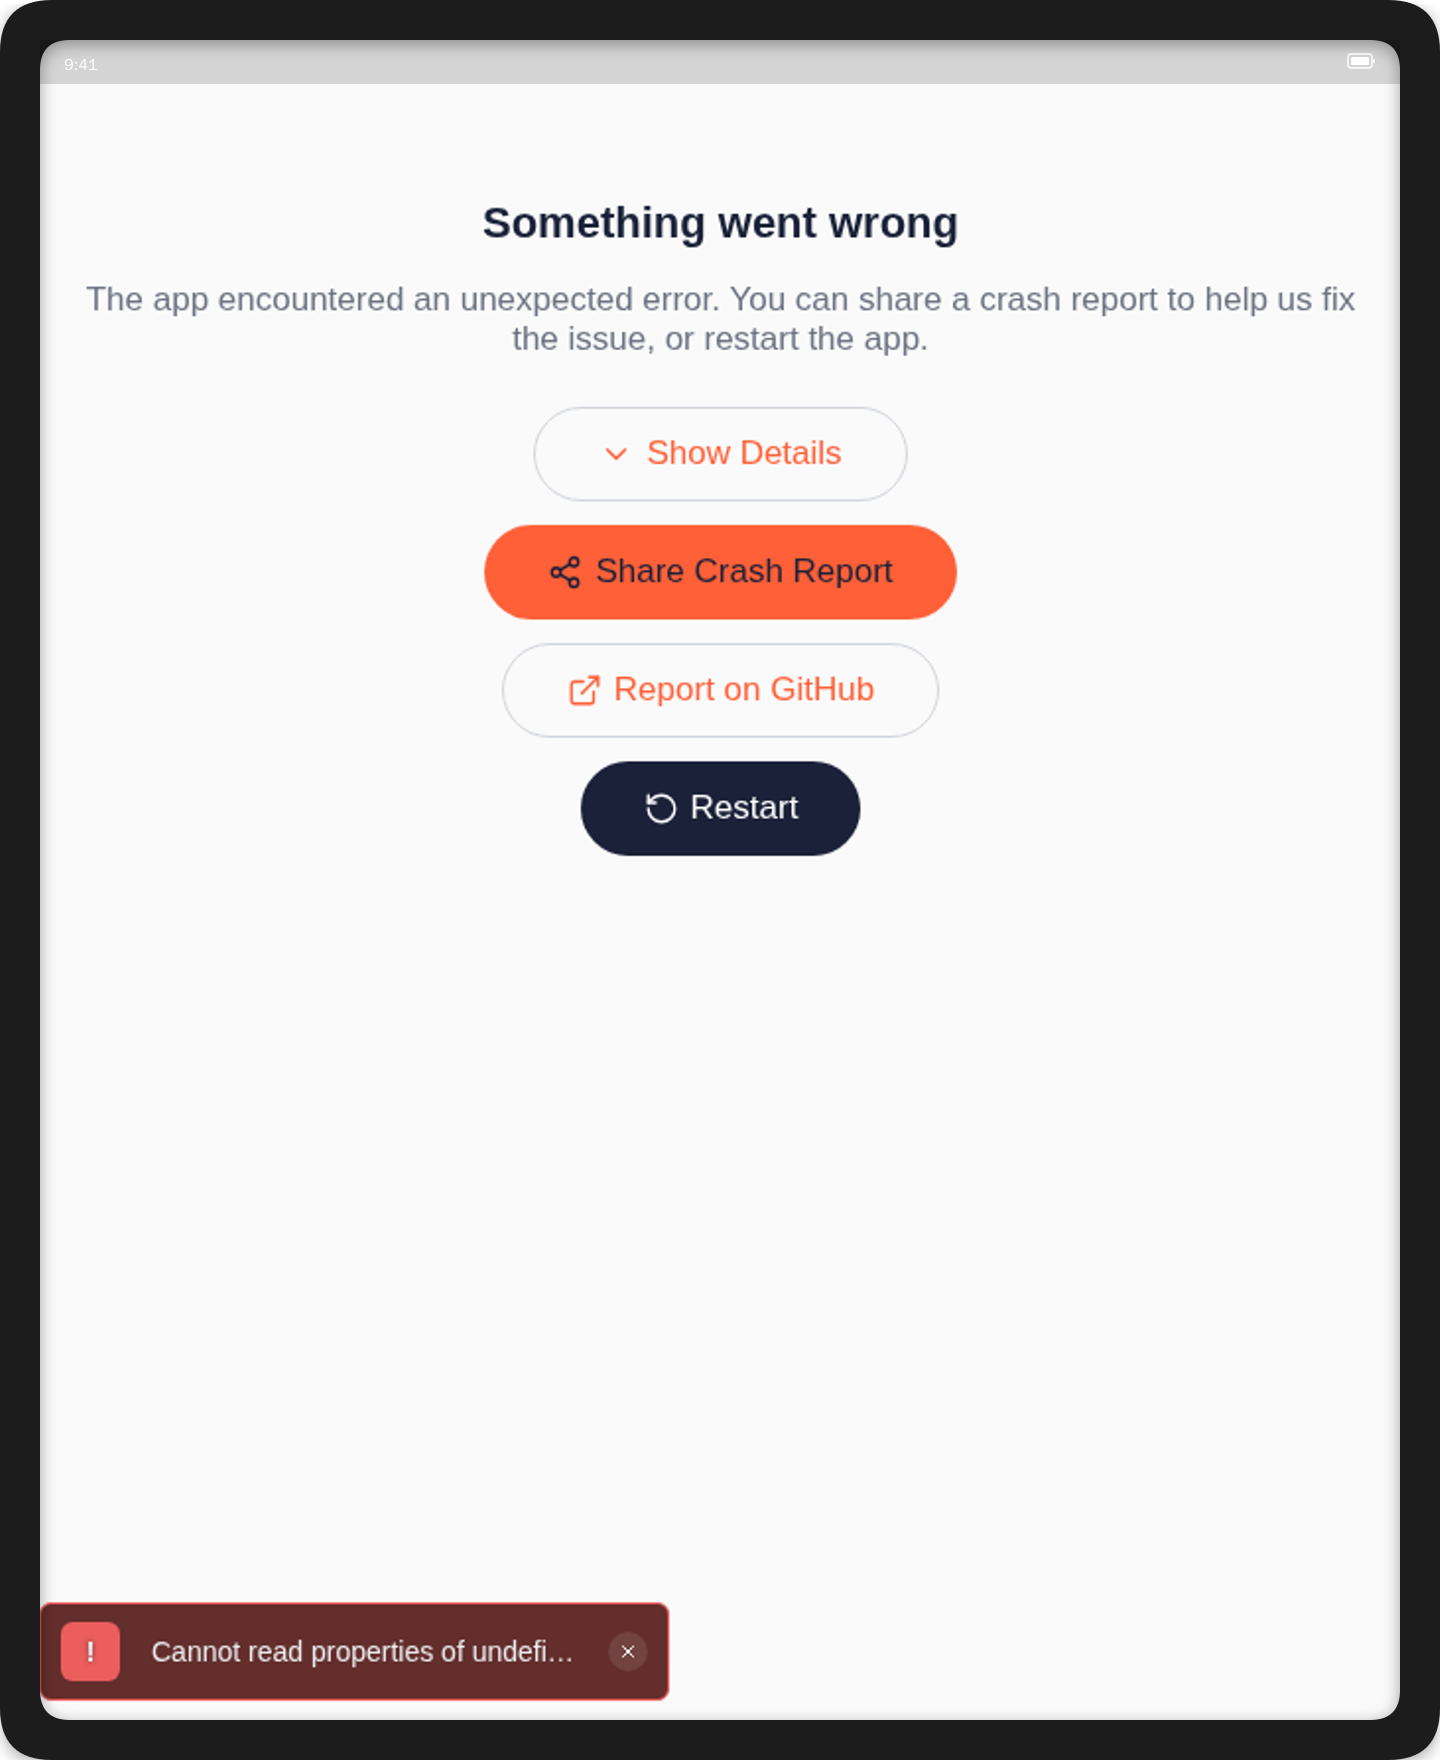
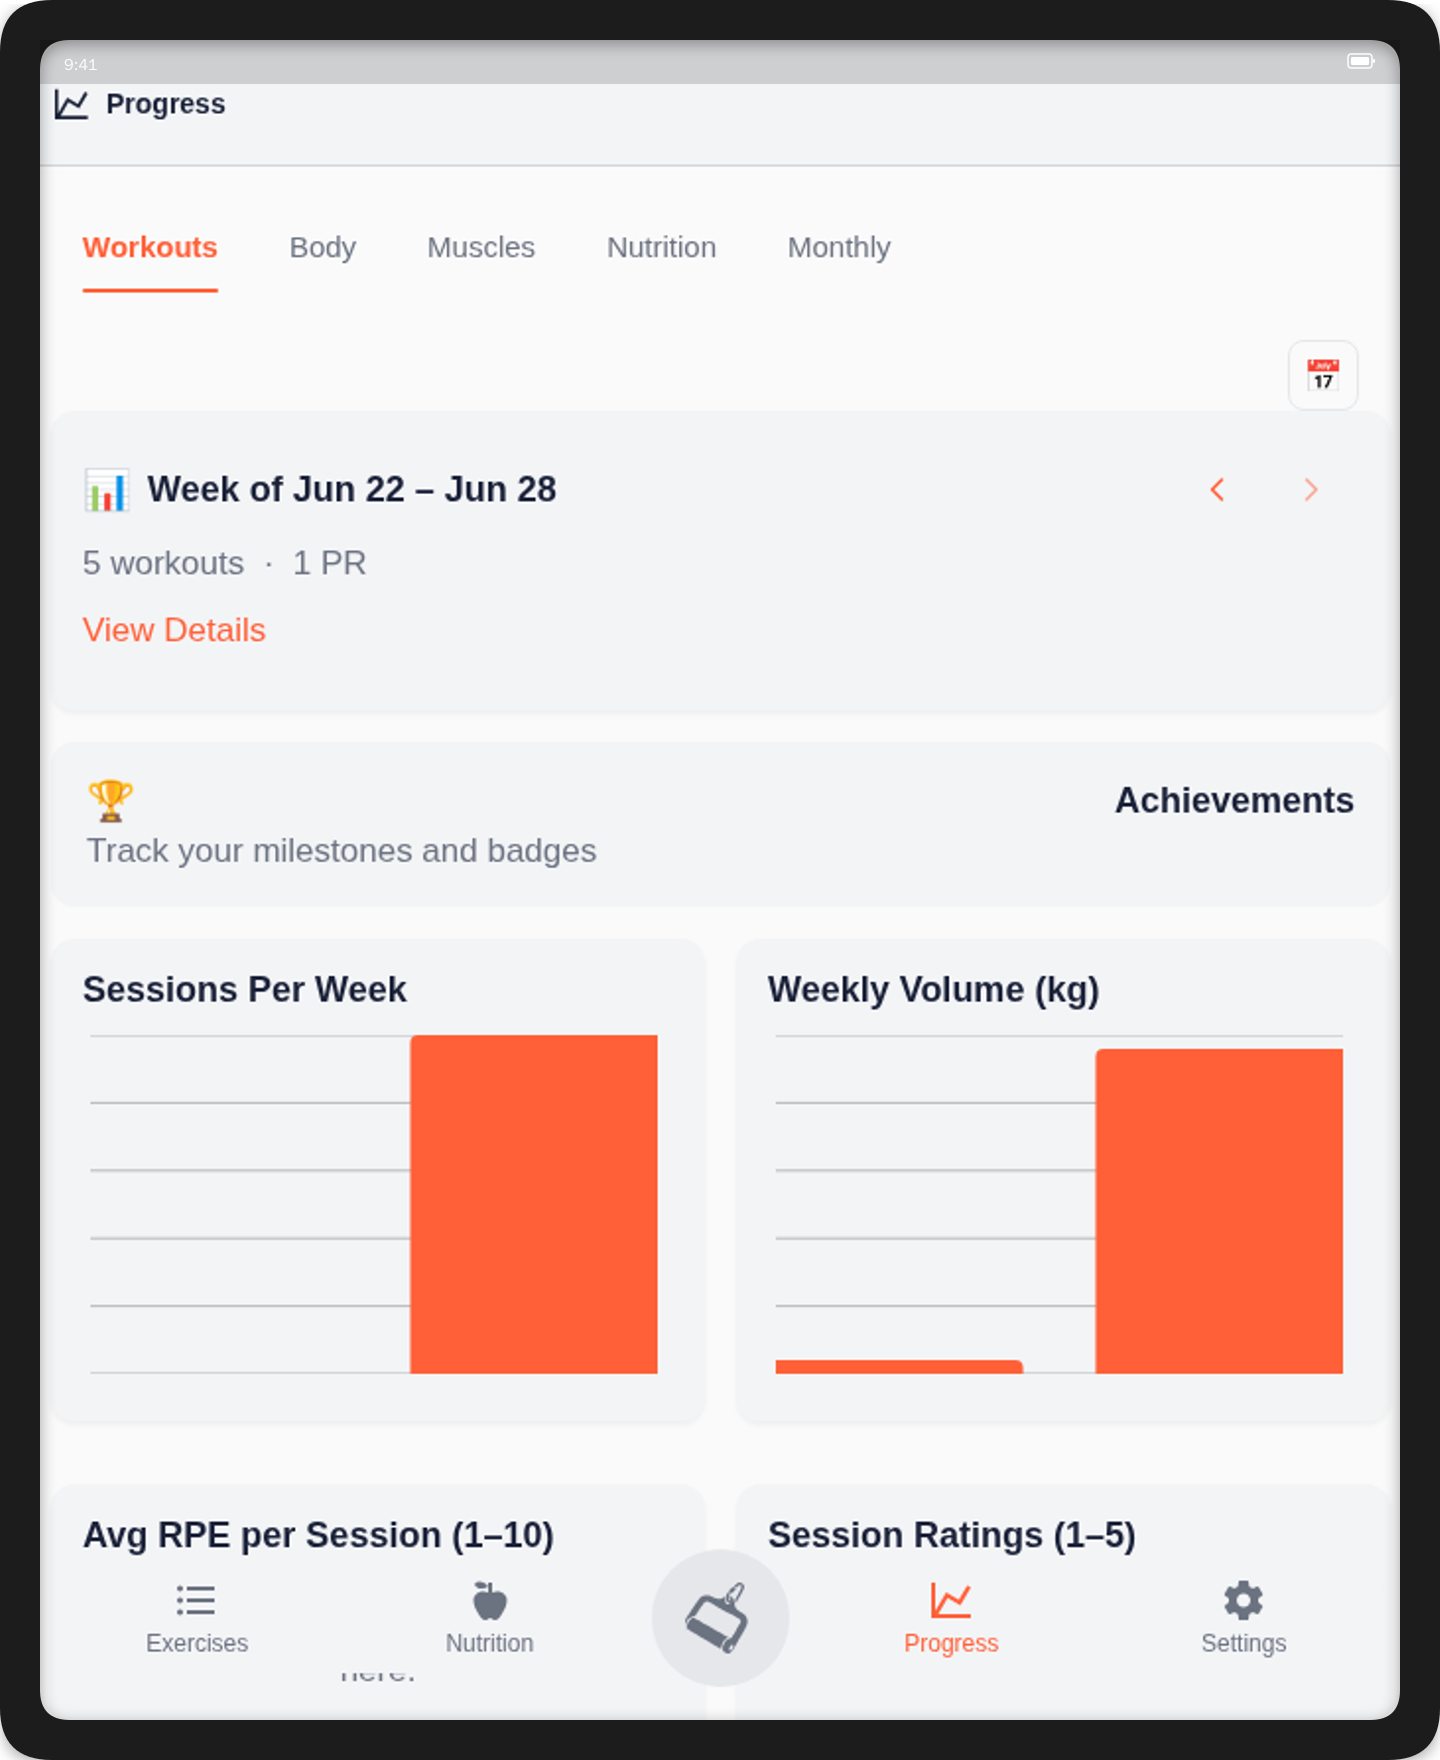
fix(progress): stage CanvasKit WASM + lazy-bind Skia web factories (BLD-2078)
The Progress tab crashed on web (worst on wide Fold ~712px) with
'Cannot read properties of undefined (reading XYWHRect)' before
react-native-skia's CanvasKit WASM finished loading. Two root causes,
both fixed here so charts render instead of tripping the ErrorBoundary:

1. WASM was never served same-origin. LoadSkiaWeb() fetched the SPA
   fallback HTML instead of canvaskit.wasm (magic-word mismatch), so
   CanvasKit never initialised. scripts/skia-setup.js (postinstall) now
   stages node_modules/canvaskit-wasm -> public/canvaskit.wasm; expo
   export copies public/ to the bundle root, exposing /canvaskit.wasm.
   The 8 MB binary is a build artifact, so it is git-ignored.

2. Skia.web.js eagerly evaluated JsiSkApi(global.CanvasKit) and the
   core factories eagerly .bind()'d Skia.X at module-load time, before
   CanvasKit existed -> import-time crash. Patch react-native-skia to a
   lazy Proxy (re-checks global.CanvasKit until populated, never caches a
   null instance) and defer the factory binds to call time.

Also trims app/_layout.tsx back under the 200-line FTA budget (the
useSkiaWebInit wiring had pushed it to exactly 200).

Regenerated all store + fdroid screenshots from a clean build: the
Progress captures now show real chart content on both store-fold7 (wide)
and store-pixel9 (narrow) — verified visually + by the hardened headless
gate (Uncaught Error / 'Something went wrong' / XYWHRect counts = 0).

Parent: BLD-2073

diff --git a/scripts/skia-setup.js b/scripts/skia-setup.js
@@ -52,6 +52,46 @@ if (!fs.existsSync(skiaPkg)) {
   }
 }
 
+// Step 1b (BLD-2078): stage CanvasKit's WASM into public/ for web.
+//
+// On web, react-native-skia loads Skia from `canvaskit-wasm`. `LoadSkiaWeb()`
+// calls `CanvasKitInit()` which fetches `canvaskit.wasm` relative to the page
+// origin. Expo copies everything under `public/` to the web bundle root on
+// `expo export`, so placing the wasm at `public/canvaskit.wasm` makes it
+// available same-origin at `/canvaskit.wasm` (both under `npx serve -s dist`
+// for the screenshot/e2e pipeline and on the deployed static host). Without
+// this, `LoadSkiaWeb()` fetches the SPA fallback HTML, fails to instantiate
+// (`expected magic word 00 61 73 6d`), CanvasKit never initialises, and the
+// Progress-tab charts can never render. Runs on ALL platforms (web needs it
+// regardless of host OS). The file is git-ignored — it is a build artifact
+// reproduced from node_modules on every install.
+try {
+  const wasmSrc = path.join(
+    projectRoot,
+    "node_modules",
+    "canvaskit-wasm",
+    "bin",
+    "full",
+    "canvaskit.wasm"
+  );
+  const publicDir = path.join(projectRoot, "public");
+  const wasmDest = path.join(publicDir, "canvaskit.wasm");
+  if (fs.existsSync(wasmSrc)) {
+    if (!fs.existsSync(publicDir)) {
+      fs.mkdirSync(publicDir, { recursive: true });
+    }
+    fs.copyFileSync(wasmSrc, wasmDest);
+    console.log("-- Staged canvaskit.wasm -> public/canvaskit.wasm");
+  } else {
+    console.warn(
+      "-- canvaskit-wasm/bin/full/canvaskit.wasm not found; web charts will not render until it is staged"
+    );
+  }
+} catch (e) {
+  console.error("-- Failed to stage canvaskit.wasm:", e.message);
+  // Non-fatal — native/typecheck/lint unaffected; only web chart rendering needs it.
+}
+
 // Step 2: On macOS, run Skia's install-libs.js to copy native frameworks
 if (process.platform !== "darwin") {
   console.log(

diff --git a/app/_layout.tsx b/app/_layout.tsx
@@ -107,12 +107,10 @@ export default Sentry.wrap(function RootLayout() {
   );
   const formClipsCtx = useMemo(() => ({ backupExclusionOk }), [backupExclusionOk]);
 
-  // BLD-2078: kick off CanvasKit (react-native-skia WASM) loading at app boot
-  // on web so charts can render as soon as possible. We do NOT gate the whole
-  // tree on readiness — each chart fails closed at its own `ChartGate`
-  // boundary, so non-chart UI (and narrow layouts) render immediately while
-  // CanvasKit is still loading. Gating the tree here previously regressed the
-  // narrow viewport to a blank/crash screen (see BLD-2078 review).
+  // BLD-2078: warm CanvasKit (react-native-skia WASM) at boot on web. We do NOT
+  // gate the tree on readiness — each chart fails closed at its own `ChartGate`,
+  // so non-chart UI and narrow layouts render immediately (gating here regressed
+  // the narrow viewport to a crash screen — see BLD-2078 review).
   useSkiaWebInit();
 
   if (!ready) return null;
